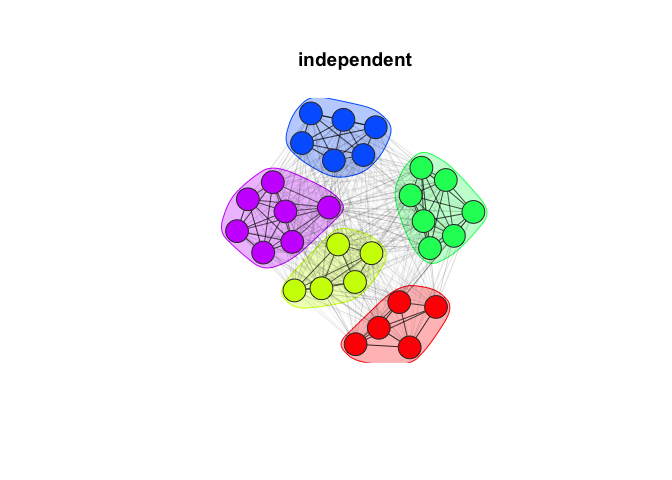
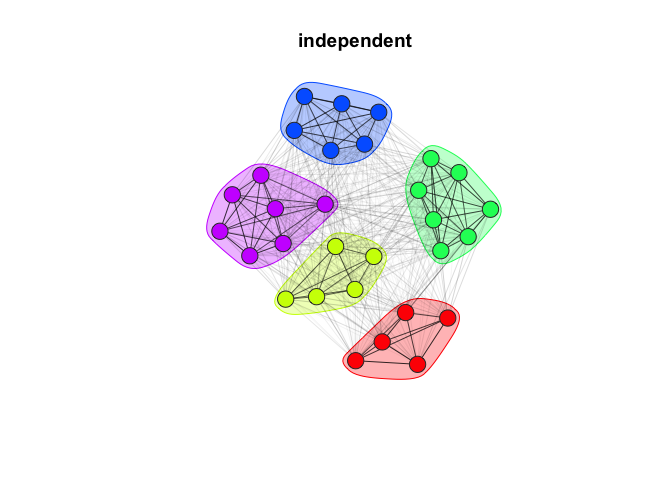
fix plot so it isn't cutoff

Changed region(s): [[0.2812, 0.0625, 0.75, 0.8125]]

diff --git a/README.md b/README.md
@@ -96,8 +96,8 @@ which we can plot using `plot_simulated_graph()`.
 
 ``` r
 g <- graph_from_schedule(ind)
-par(oma = c(1, 0, 1, 0))
-plot_simulated_graph(g, title = "independent")
+plot_simulated_graph(g, title = "independent", vertex.size = 25,
+    mark.expand = 25)
 ```
 
 ![](man/figures/README-graph-1.png)
